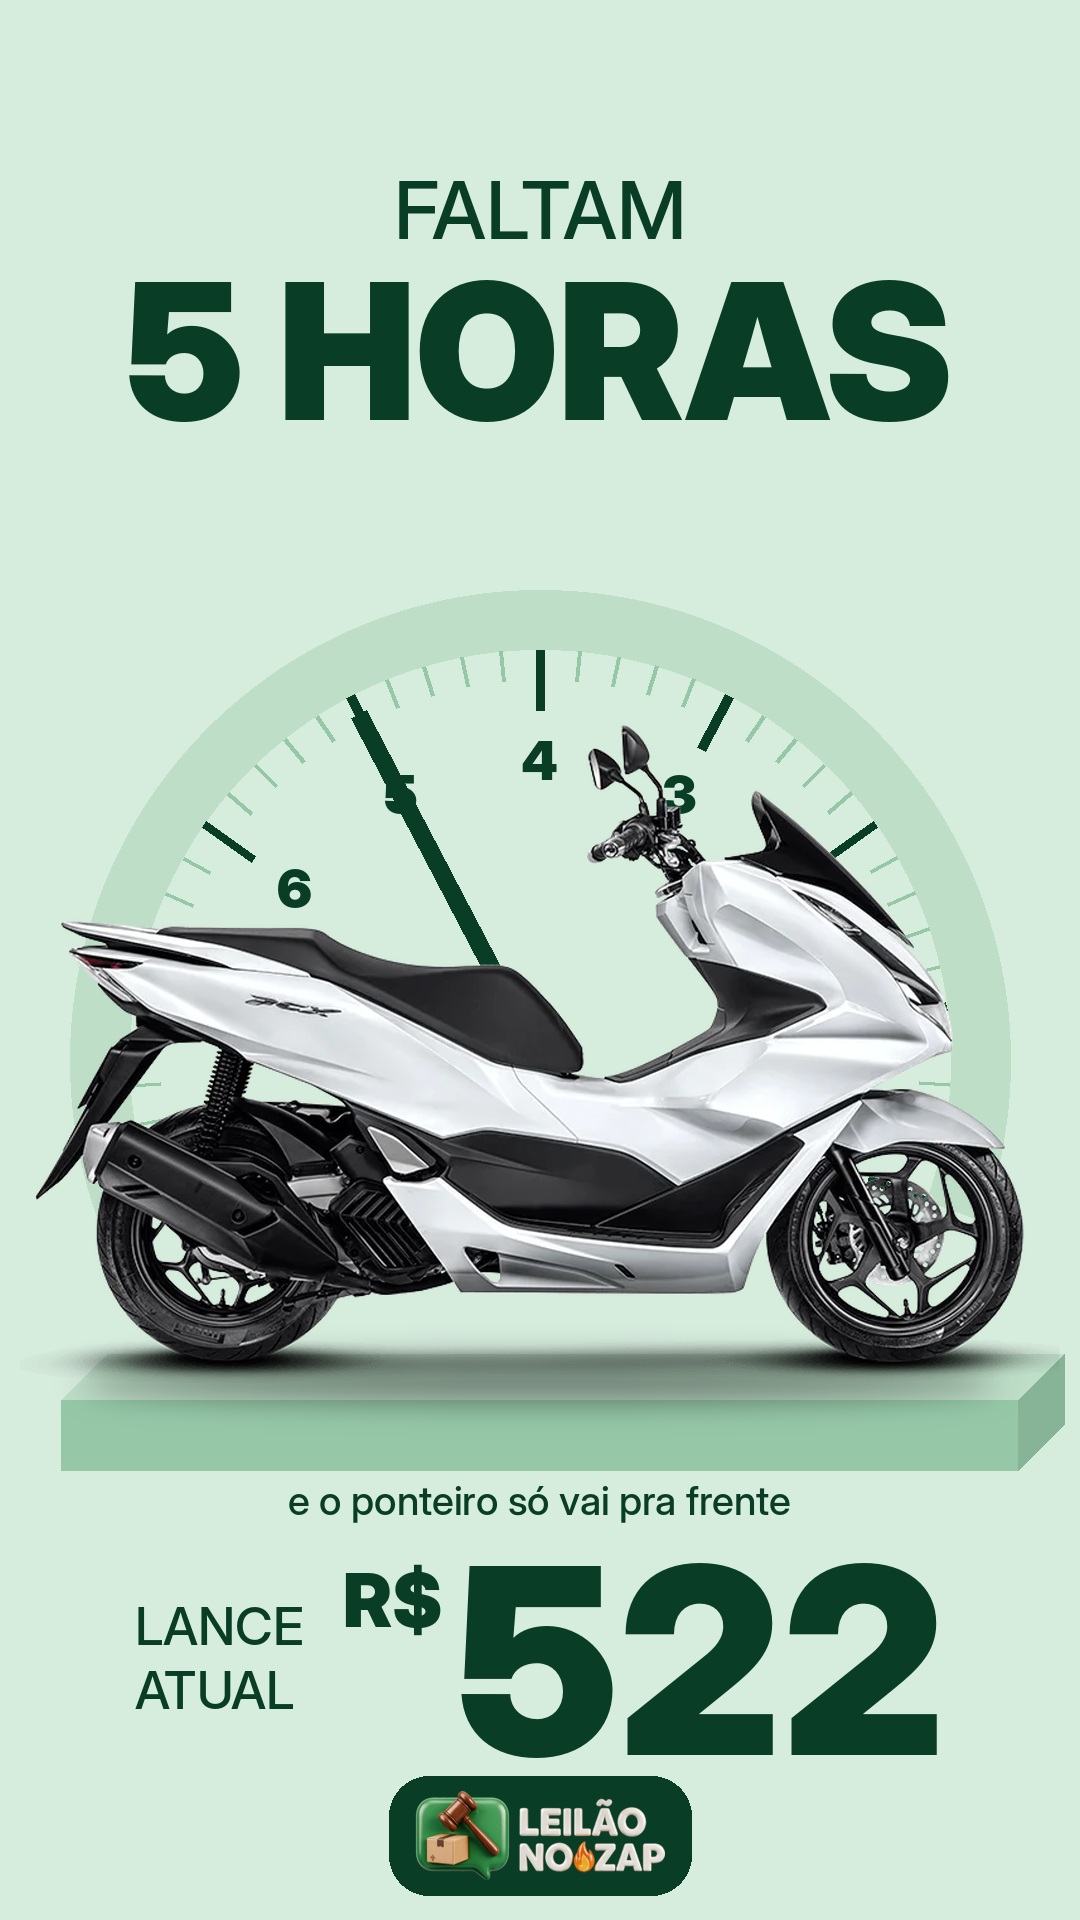
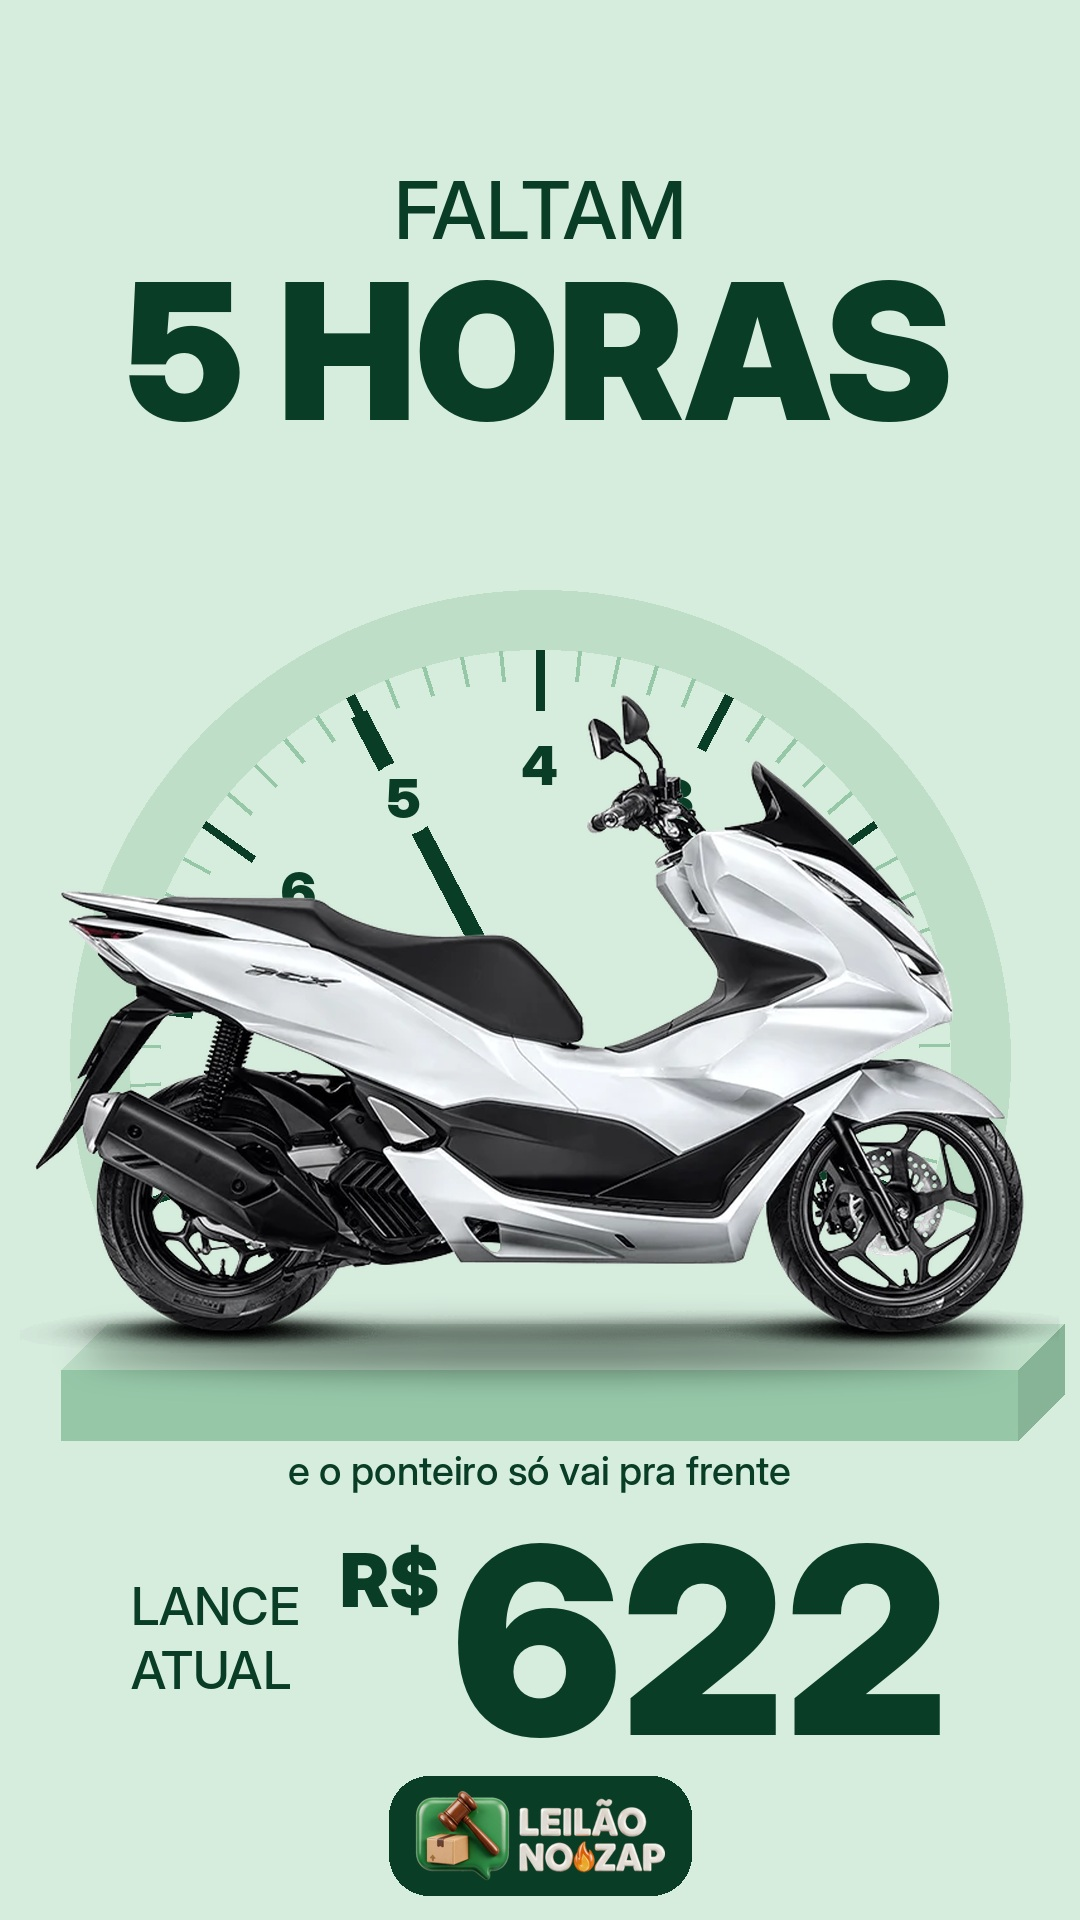
PCX 15h: lance R$ 622, números do velocímetro por cima do ponteiro
Claude-Session: https://claude.ai/code/session_01JihU9VfVTYTrMqQpApFEjH

diff --git a/marketing/semana-2026-11-16/sabado-21-11-pcx/fonte/contagem_marca.py b/marketing/semana-2026-11-16/sabado-21-11-pcx/fonte/contagem_marca.py
@@ -91,11 +91,13 @@ if quer('15h'):
     for i in range(0, 41):
         v = i / 40; an = math.radians(a0 - (a0 - a1) * v); r1, r2 = r - 60, r - (120 if i % 5 == 0 else 90)
         d.line((cx + r1 * math.cos(an), cy - r1 * math.sin(an), cx + r2 * math.cos(an), cy - r2 * math.sin(an)), fill=VE if i % 5 == 0 else OURO3, width=9 if i % 5 == 0 else 4)
-        if i % 5 == 0: d.text((cx + (r - 170) * math.cos(an), cy - (r - 170) * math.sin(an)), str(8 - i // 5), font=F('Black', 54), fill=VE, anchor='mm')
     an = math.radians(a0 - (a0 - a1) * 3 / 8); d.line((cx, cy, cx + (r - 80) * math.cos(an), cy - (r - 80) * math.sin(an)), fill=VE, width=18)
     d.ellipse((cx - 34, cy - 34, cx + 34, cy + 34), fill=VE)
-    moto(b, 1040, W / 2, 1400, (OURO2, OURO3))
-    d = ImageDraw.Draw(b); rotulo(d, 1500, 'e o ponteiro só vai pra frente'); lance(d, 1660); logo(b)
+    for i in range(0, 41, 5):   # números por cima do ponteiro, numa bolinha, para o ponteiro não tampar
+        an2 = math.radians(a0 - (a0 - a1) * i / 40); px, py = cx + (r - 175) * math.cos(an2), cy - (r - 175) * math.sin(an2)
+        d.ellipse((px - 36, py - 36, px + 36, py + 36), fill=OURO); d.text((px, py), str(8 - i // 5), font=F('Black', 54), fill=VE, anchor='mm')
+    moto(b, 1040, W / 2, 1370, (OURO2, OURO3))
+    d = ImageDraw.Draw(b); rotulo(d, 1470, 'e o ponteiro só vai pra frente'); lance(d, 1640); logo(b)
     salva(b, 'PCX-3-15h-5-horas')
 
 # 4 · 17h · FALTAM 3 HORAS (painel digital, verde-escuro)
